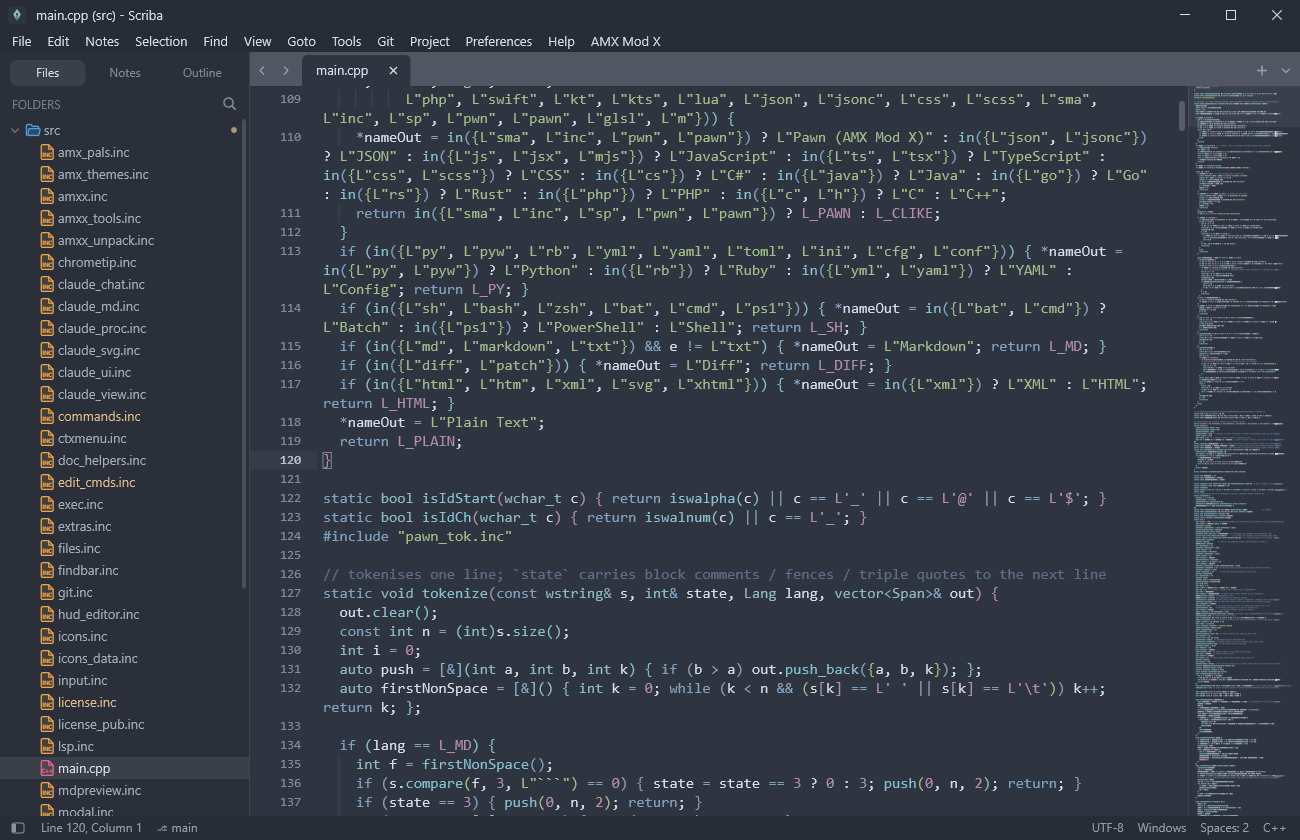
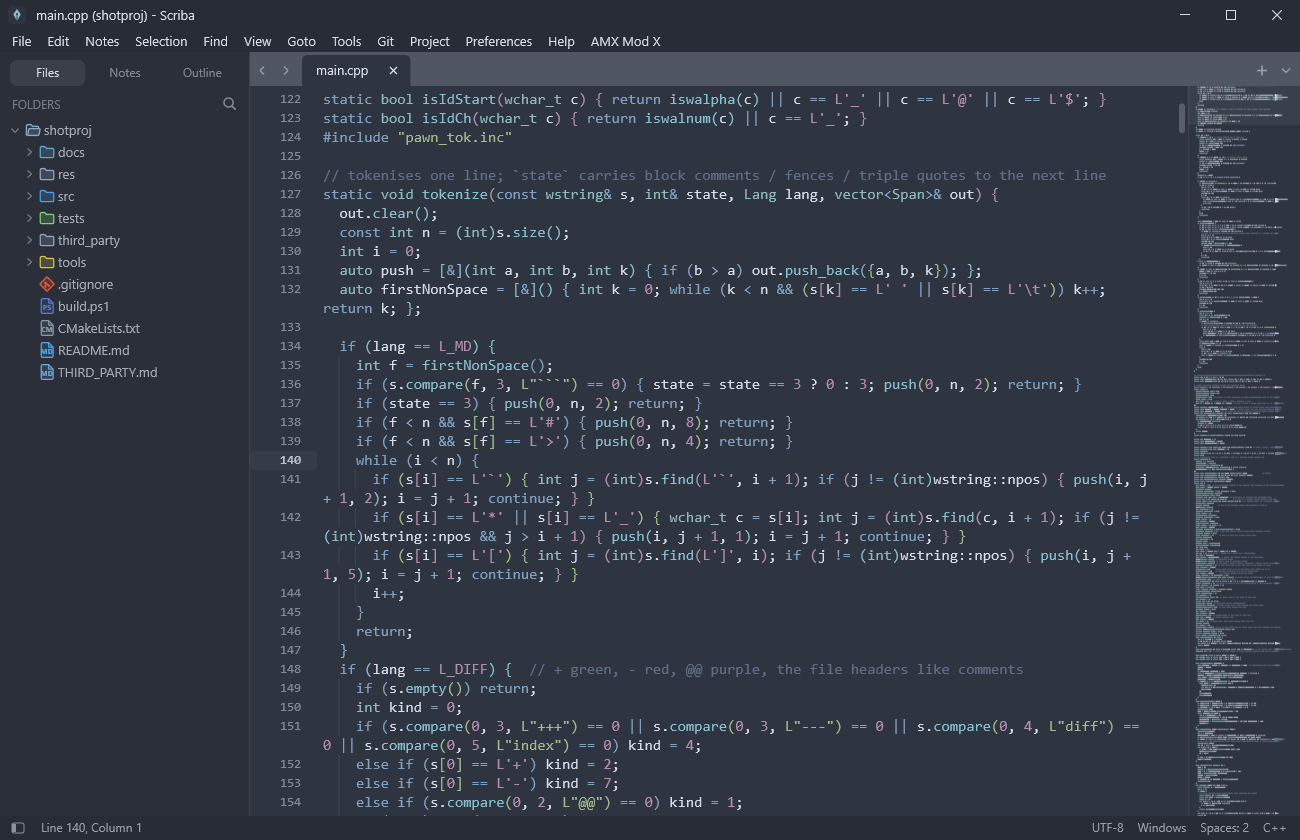
Expand the README with a feature overview and screenshots

diff --git a/README.md b/README.md
@@ -5,7 +5,7 @@
 <h1 align="center">Scriba</h1>
 
 <p align="center">
-  A fast, native text editor for Windows, in the style of Sublime Text.<br>
+  A fast, native text editor for Windows.<br>
   Written in C++ with Win32 and Direct2D: no browser engine, no runtime to install.
 </p>
 
@@ -19,38 +19,38 @@
   <img src="docs/screenshots/editor.png" alt="Scriba editing a C++ file with the project in the side bar">
 </p>
 
-> This is the **native C++ edition**. The earlier Electron edition is kept on the
-> [`electron-edition`](https://github.com/robertgrasu/scriba-text-editor/tree/electron-edition) branch.
-
 ## Features
 
 - **Editing**: multiple cursors, folding, bookmarks, snippets, macros, indentation guides, coloured bracket pairs, a minimap, split view with two groups.
 - **Go anywhere**: command palette, Goto Anything, Goto Symbol, Goto Line, jump back and forward, recent files and projects, a file name search in the side bar.
 - **Search**: find and replace with regex, whole word and "in selection"; Find in Files and Replace in Files.
-- **Syntax highlighting** for about 30 languages, parsed with [tree-sitter](https://tree-sitter.github.io/) (20 grammars), plus 38 colour schemes and four interface styles.
+- **Syntax highlighting** for about 30 languages, parsed with [tree-sitter](https://tree-sitter.github.io/), 38 colour schemes and four interface styles.
+- **Notes**: quick notes written in Markdown, shown formatted as you type, with tags, colours, pins and search.
 - **Git**: changed lines in the gutter, the branch in the status bar, next and previous change, revert a change, diff of the file.
 - **Language servers**: errors as you type, completion, hover, go to definition, find references, rename, format.
 - **Run Command**: runs a command line in the project folder with live output and clickable `file:line` links.
-- **Notes**: quick Markdown notes with a formatted (visual) mode, tags, colours and search.
 - **Claude Code**: a chat dock that runs your installed `claude` in the project folder (needs Claude Code installed and signed in).
-- **Settings as JSON**, like Sublime: `settings.json`, `keymap.json`, `snippets.json`, with a settings page and live reload. The default key map follows Sublime Text, including chords such as `Ctrl+K Ctrl+D`.
+- **Everything is a setting**: `settings.json`, `keymap.json` and `snippets.json`, with a settings page and live reload. Key bindings can be chords such as `Ctrl+K Ctrl+D`.
 - **Open from other programs**: pass a file on the command line (WinSCP, "Open with"); it opens as a tab in the window that is already running.
+- Also: tools for writing AMX Mod X (Pawn) plugins.
 
-<p align="center">
-  <img src="docs/screenshots/amxx.png" alt="A Pawn plugin with the AMX Mod X colour style">
-</p>
+## A look around
 
-### AMX Mod X
-
-Tools for writing Pawn plugins for AMX Mod X: colouring that follows the AMXX-Editor schemes, completion and hover help from the includes,
-unknown function marks, go to definition, compile with `amxxpc` and a results panel, an includes tree, a functions list, a HUD Editor and
-an AMXX Uncompress command.
+<table>
+  <tr>
+    <td width="50%"><img src="docs/screenshots/notes.png" alt="Notes in Markdown, shown formatted, with tags, colours and pins"><br><sub><b>Notes</b>: Markdown that is shown formatted as you write it; to-do lists, tables, code blocks, tags and colours.</sub></td>
+    <td width="50%"><img src="docs/screenshots/palette.png" alt="The command palette"><br><sub><b>Command palette</b>: every command by name, with its key binding.</sub></td>
+  </tr>
+  <tr>
+    <td width="50%"><img src="docs/screenshots/split.png" alt="Two files side by side"><br><sub><b>Split view</b>: two groups with their own tabs and minimap, side by side or stacked.</sub></td>
+    <td width="50%"><img src="docs/screenshots/settings.png" alt="The settings page"><br><sub><b>Settings</b>: a page with search, backed by a plain JSON file.</sub></td>
+  </tr>
+</table>
 
 ## Download
 
 Get `Scriba-<version>-windows-x64.zip` from the [releases page](https://github.com/robertgrasu/scriba-text-editor/releases), unzip it and run
-`Scriba.exe`. There is no installer and it does not need administrator rights. The public build has **no license check** and does not connect
-to any server.
+`Scriba.exe`. There is no installer and it does not need administrator rights. The build has **no license check** and does not connect to any server.
 
 Windows may show "Windows protected your PC" because the program is not signed yet: press "More info", then "Run anyway".
 
@@ -64,18 +64,16 @@ You need Visual Studio Build Tools (the C++ workload), CMake and Ninja. Then:
 ```powershell
 .\build.ps1                      # build\Scriba.exe
 .\tests\run-all.ps1              # runs every scripted scenario against build\Scriba.exe
-.\tools\release.ps1 -Free        # the public zip, without the license check, in dist\
+.\tools\release.ps1 -Free        # the zip for the releases page, in dist\
 ```
 
 The tests drive the real program with a small script language (`SCRIBA_TEST=<script>`: keys, clicks, screenshots) and check the result.
-By default a build has a license check; `-DSCRIBA_FREE=ON` (what `release.ps1 -Free` uses) takes it out. The code of the license
-server is in [`license_server/`](license_server) and is only needed for the builds that keep the check.
+`-DSCRIBA_FREE=ON` (what `release.ps1 -Free` uses) builds without any license check.
 
 Source layout: everything is included into `src/main.cpp` as `.inc` modules (`commands.inc` the command registry, key map and menus,
-`edit_cmds.inc`, `exec.inc`, `settings*.inc`, `panel.inc`, `git.inc`, `lsp.inc`, `claude_*.inc`, `amxx*.inc`, ...). `TODO.md` lists what
-is still missing.
+`edit_cmds.inc`, `exec.inc`, `settings*.inc`, `panel.inc`, `git.inc`, `lsp.inc`, `claude_*.inc`, ...).
 
 ## Third party
 
 tree-sitter and its grammars, and the JSON library by Niels Lohmann, are MIT licensed: see [THIRD_PARTY.md](THIRD_PARTY.md) and
-`third_party/licenses/`. The AMX Mod X features follow the AMXX-Editor package by Destro; the game screenshots in `res/hud` come from Counter-Strike.
+`third_party/licenses/`.
